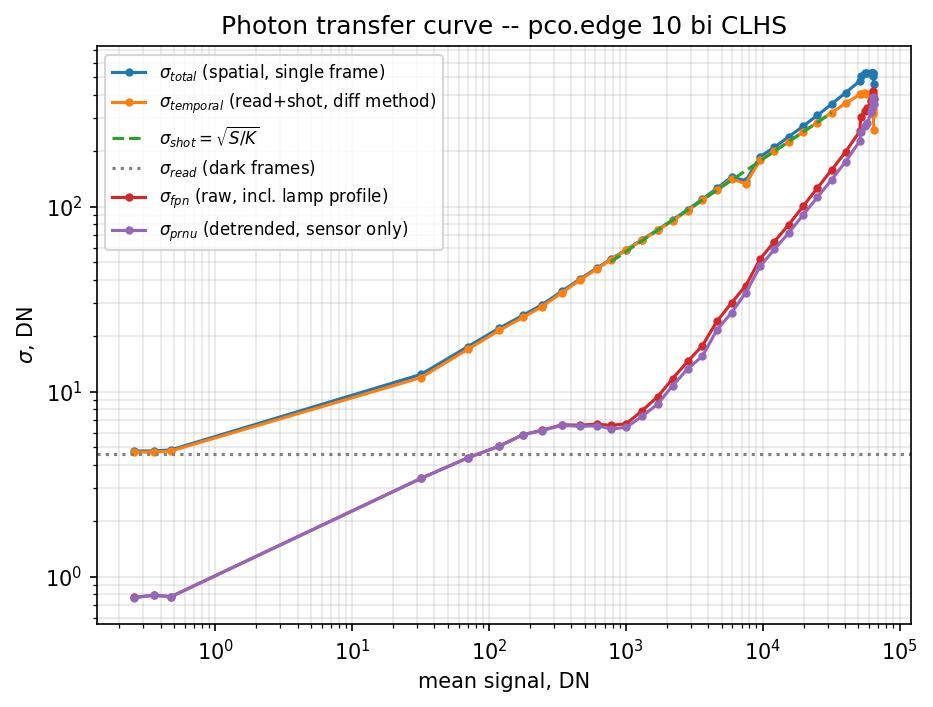
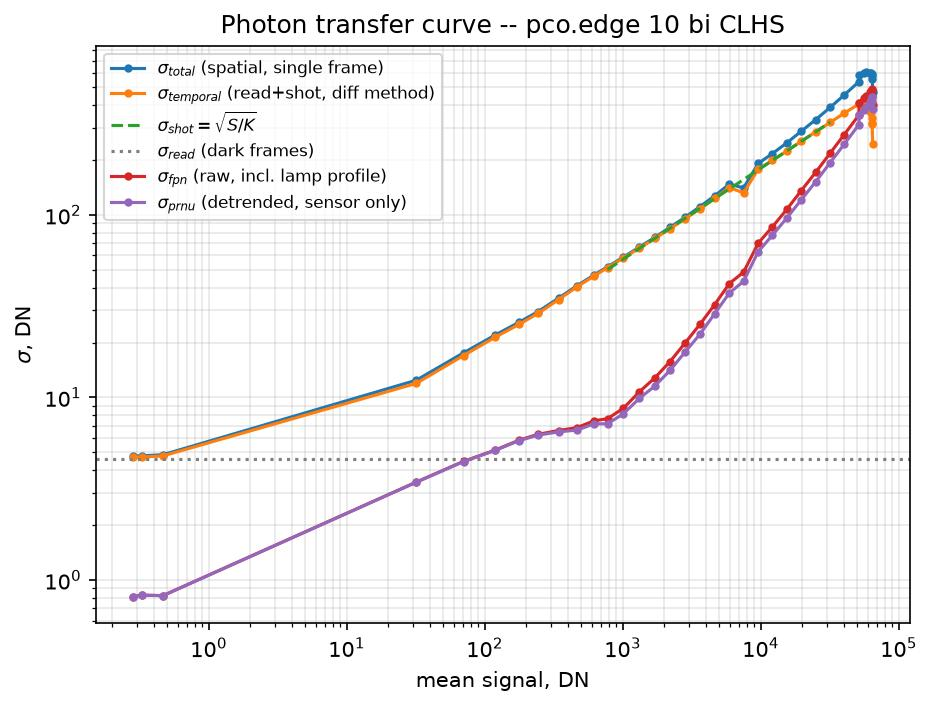
updated phase_meas woth gpu

diff --git a/scripts/phase/phase_measurement.py b/scripts/phase/phase_measurement.py
@@ -4,6 +4,7 @@ import numpy as np
 import argparse
 from pathlib import Path
 import contextlib
+import concurrent.futures
 import time
 from typing import Tuple
 from datetime import datetime
@@ -15,6 +16,7 @@ from instruments.kinesismotor import KinesisMotor
 from instruments.inertialpiezo import KIM101, KIM101Axis
 from instruments.config import EquipmentConfig
 from phase import aia, remove_carrier, subtract_reference
+from phase.backend import asnumpy
 from phase.combine import combine_acquisitions
 
 NUM_PIEZO_STEPS = 20
@@ -48,11 +50,17 @@ def _armed_camera(camera):
     finally:
         camera.disarm()
         
-def get_phase(camera: Camera,
-              piezo: KIM101Axis,
-              step_size: int,
-              num_piezo_steps: int) -> Tuple[np.ndarray, np.ndarray, np.ndarray]:
-
+def _acquire_repeat(camera: Camera,
+                     piezo: KIM101Axis,
+                     step_size: int,
+                     num_piezo_steps: int) -> np.ndarray:
+    """One phase-shift sweep's worth of hardware I/O for a single repeat:
+    dry-run backlash compensation, the frame-capture loop, dry-run back, and
+    return to the start position. Kept on the caller's thread -- the
+    piezo/camera driver calls aren't meant to be used concurrently -- while
+    `measure_phase` overlaps this with the (CPU/GPU-bound) `aia` solve of
+    the *previous* repeat in a background thread instead.
+    """
     # dry piezo run forward
     for i in range(DRY_NUM):
         piezo.move_by(DRY_STEP)
@@ -76,36 +84,67 @@ def get_phase(camera: Camera,
         time.sleep(SETTLE_S)
 
     piezo.move_to(init_position)
+    return images
 
-    res = aia(images, gain="auto", iters=60)
+def _process_repeat(images: np.ndarray, device: str) -> Tuple[np.ndarray, np.ndarray, np.ndarray]:
+    """Run AIA on one repeat's frame stack. Meant to be submitted to a
+    background thread (see `measure_phase`) so it overlaps with the next
+    repeat's hardware acquisition rather than leaving the piezo/camera idle
+    for the whole solve."""
+    res = aia(images, gain="auto", iters=60, device=device)
     print(f"Converged: {res.converged}")
     print(f"Kappa_p: {res.kappa_p}")
     print(f"Kappa_ps: {res.kappa_ps}")
-    
     return res.a, res.b, res.phi
 
 def measure_phase(camera: Camera,
                   piezo: KIM101Axis,
                   step_size: int,
                   num_piezo_steps: int,
-                  num_averages: int) -> Tuple[np.ndarray, np.ndarray]:
-    phi = []
-    b = []
-    for num in range(num_averages):
-        _, sample_b, sample_phi = get_phase(camera, piezo, step_size, num_piezo_steps)
-        b.append(sample_b)
-        phi.append(sample_phi)
-        
-    b = np.asarray(b)
-    phi = np.asarray(phi)
-    
-    res = combine_acquisitions(phi, weights=b)
-    
+                  num_averages: int,
+                  device: str = "auto") -> Tuple[np.ndarray, np.ndarray]:
+    """Acquire `num_averages` independent repeats and combine their AIA phase.
+
+    Each repeat's `aia` solve (`_process_repeat`) runs in a background
+    thread while the *next* repeat's dry-run + sweep (`_acquire_repeat`)
+    proceeds on this thread, instead of the piezo/camera sitting idle for
+    the whole solve. A single-worker pool is enough since only one solve is
+    ever in flight; with `device="cuda"` that solve becomes fast enough to
+    mostly hide behind the ~(2*DRY_NUM + num_piezo_steps)*SETTLE_S seconds
+    of hardware time each repeat already takes.
+    """
+    phi_list, b_list = [], []
+    with concurrent.futures.ThreadPoolExecutor(max_workers=1) as pool:
+        pending = None
+        for _ in range(num_averages):
+            images = _acquire_repeat(camera, piezo, step_size, num_piezo_steps)
+            if pending is not None:
+                _, prev_b, prev_phi = pending.result()
+                b_list.append(prev_b)
+                phi_list.append(prev_phi)
+            pending = pool.submit(_process_repeat, images, device)
+        _, last_b, last_phi = pending.result()
+        b_list.append(last_b)
+        phi_list.append(last_phi)
+
+    b = np.asarray([asnumpy(x) for x in b_list])
+    phi = np.asarray([asnumpy(x) for x in phi_list])
+
+    res = combine_acquisitions(phi, weights=b, device=device)
+
     return res.phi, res.mean_resultant
         
 def main():
+    parser = argparse.ArgumentParser(description=__doc__)
+    parser.add_argument("--device", default="auto", choices=["auto", "cpu", "cuda"],
+                        help="Where to run the AIA/carrier/reference solves "
+                             "(see phase.backend) -- 'auto' uses a GPU if one "
+                             "is installed and available, else the CPU.")
+    args = parser.parse_args()
+    device = args.device
+
     cfg = EquipmentConfig.from_yaml(CONFIG_ROOT / "config.yaml")
-    
+
     with contextlib.ExitStack() as stack:
         # Init devices
         camera = open_camera(cfg, stack)
@@ -134,27 +173,32 @@ def main():
         init_y_pos = stage_y.get_position()
         start = time.time()
         with _armed_camera(camera):
-            sample_phi, sample_mean_resultant = measure_phase(camera, piezo, 
+            sample_phi, sample_mean_resultant = measure_phase(camera, piezo,
                                                             STEP_SIZE, NUM_PIEZO_STEPS,
-                                                            NUM_AVERAGES)
+                                                            NUM_AVERAGES, device=device)
             stage_x.move_by(REFERENCE_X_BY)
             stage_y.move_by(REFERENCE_Y_BY)
-            
-            reference_phi, _ = measure_phase(camera, piezo, 
+
+            reference_phi, _ = measure_phase(camera, piezo,
                                             STEP_SIZE, NUM_PIEZO_STEPS,
-                                            NUM_AVERAGES)
+                                            NUM_AVERAGES, device=device)
 
         stage_x.move_to(init_x_pos)
         stage_y.move_to(init_y_pos)
-        
-    diff = subtract_reference(sample_phi, reference_phi, sample_mean_resultant)
+
+    diff = subtract_reference(sample_phi, reference_phi, sample_mean_resultant, device=device)
     carrier_res = remove_carrier(diff.phi, sample_mean_resultant,
-                                defocus=True, refine_iters=10, n_blocks=10)
+                                defocus=True, refine_iters=10, n_blocks=10, device=device)
     end = time.time()
     print(f"Phase measurement completed in {end-start:.2f} seconds")
     timestamp = datetime.now().strftime('%Y%m%d_%H%M%S')
     save_path = Path(__file__).resolve().parent / f"phase_measurement_{timestamp}.npz"
-    np.savez(save_path, **asdict(carrier_res))
+    # bring the one array-valued field back to the host explicitly -- np.savez
+    # can't serialize a cupy array, and dataclasses.asdict won't do that
+    # transfer on its own.
+    out = asdict(carrier_res)
+    out["phi"] = asnumpy(out["phi"])
+    np.savez(save_path, **out)
     print(f"Saved measurement -> {save_path}")
 
 if __name__ == "__main__":
